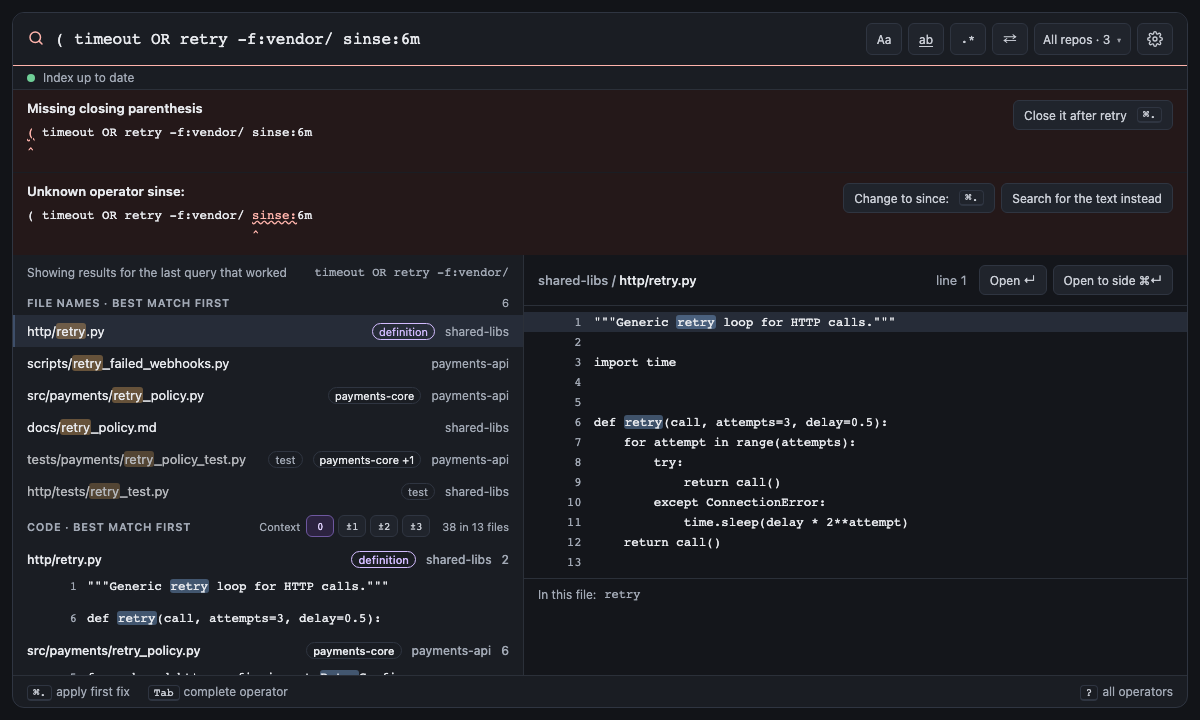
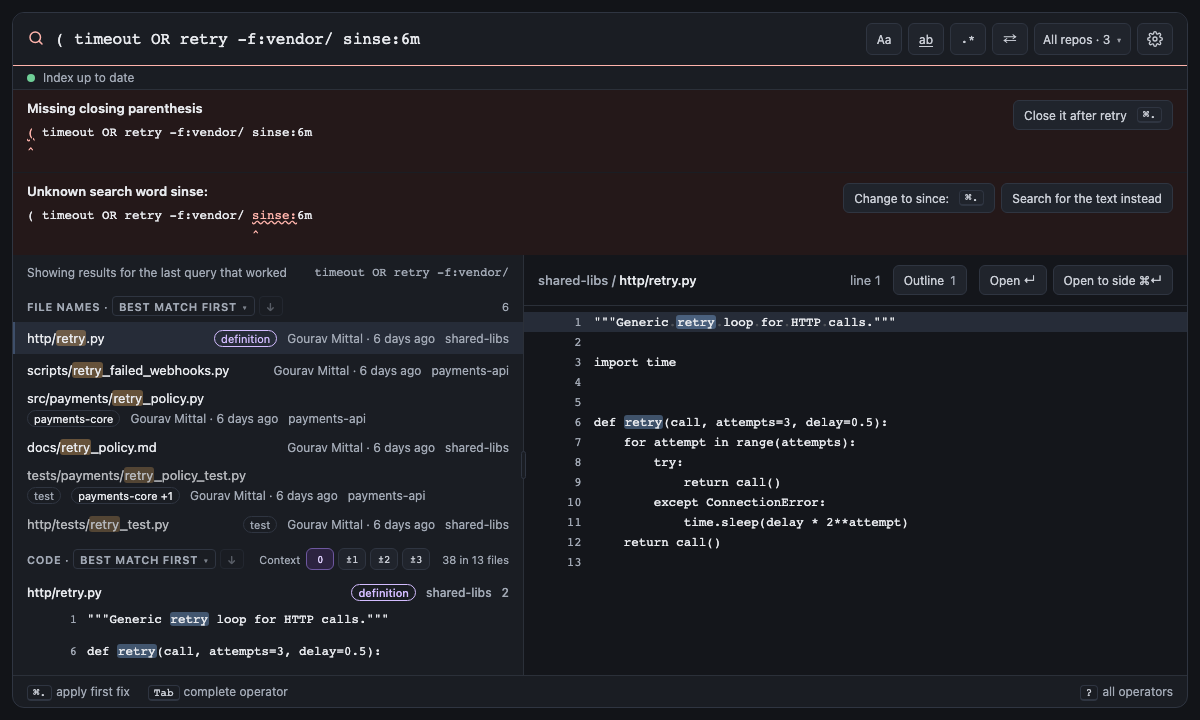
docs: call unknown names "search words" and retake the query-errors screenshot

diff --git a/docs/dev/implementation-plan.md b/docs/dev/implementation-plan.md
@@ -114,7 +114,7 @@ bare     = 1*( any char except space, "(", ")", '"' ) ;
 
 - Every operator has a full name. Five also have a short name: `file:` `f:`, `author:` `a:`, `symbol:` `sym:`,
   `language:` `lang:`, `message:` `msg:`. The one-letter names the others once had (`s:`, `i:`, `d:` …) and `path:`
-  are unknown operators whose fix offers the full name. Suggestions and help show the full name.
+  are unknown search words whose fix offers the full name. Suggestions and help show the full name.
 - `AND` and `OR` are keywords only in uppercase. Lowercase `or` is a search term.
 - AND binds tighter than OR. `a b OR c` means `(a b) OR c`.
 - A word shaped like `name:` with an unknown name is an error, not a term. Quoting it (`"sinse:6m"`) makes it a term.

diff --git a/CHANGELOG.md b/CHANGELOG.md
@@ -69,7 +69,7 @@ All notable changes to this project are documented here. The format follows
 
 - Only `file:`, `author:`, `symbol:`, `language:` and `message:` keep a short name, and it reads: `f:`, `a:`,
   `sym:`, `lang:` and `msg:`. The other one-letter names (`s:`, `i:`, `d:`, `r:` …) and `path:` are gone; typing one
-  says **Unknown operator s: (now symbol:)** and the fix changes it to the full name.
+  says **Unknown search word s: (now symbol:)** and the fix changes it to the full name.
 
 ## [2.0.0] - 2026-10-10
 
